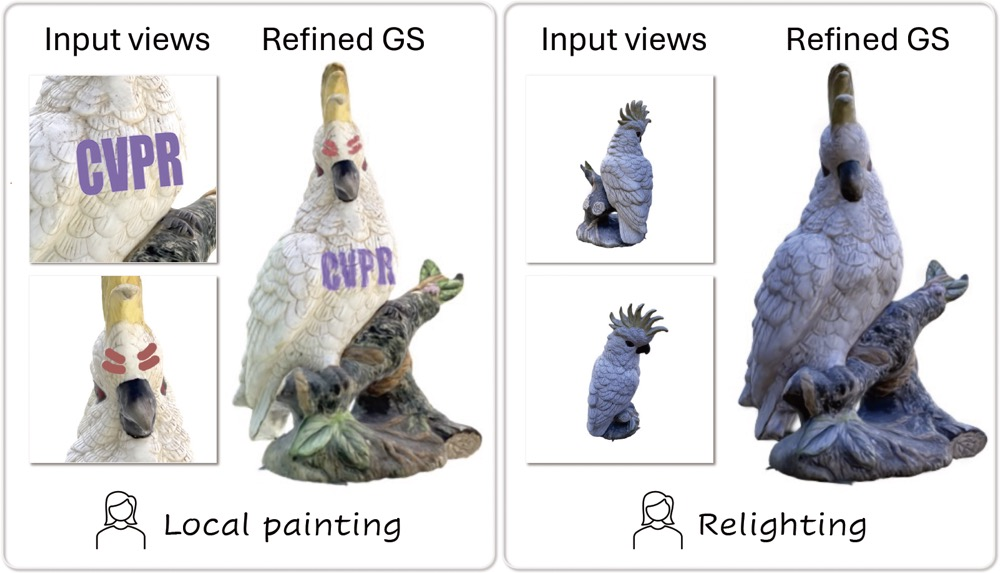
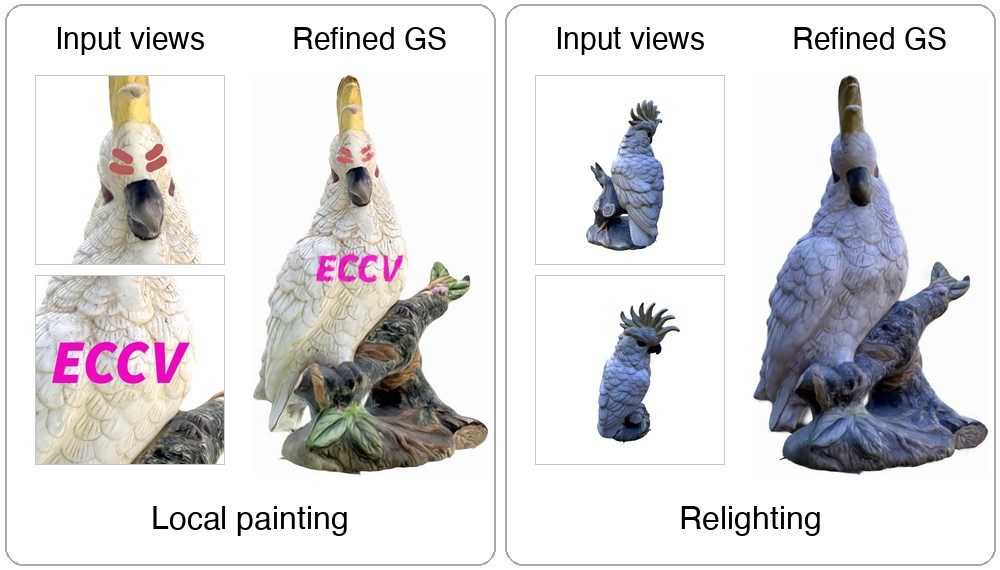
Add FluidGen, update SplatPainter (ECCV 2026), links, and bio

diff --git a/index.html b/index.html
@@ -65,9 +65,10 @@
 					  </p>
 					  <!-- Biography -->
 					  <p style="margin-top: 3mm; margin-bottom: 0.5mm; font-family: 'Open Sans', sans-serif; font-size: 12pt; text-align: left;">
-						I am a fourth-year CS Ph.D. student at Stanford University, advised by Prof. <a href="https://geometry.stanford.edu/member/guibas/"><b>Leonidas Guibas</b></a> and Prof. <a href="https://stanford.edu/~gordonwz/"><b>Gordon Wetzstein</b></a>. I also had the pleasure to work with Prof. <a href="https://jiajunwu.com/"><b>Jiajun Wu</b></a> in my first-year rotation. I got my bachelor's degree from the Department of Automation, Tsinghua University, where I was fortunate to be advised by Prof. <a href="http://www.liuyebin.com/"><b>Yebin Liu</b></a>.
+						I am a fourth-year CS Ph.D. student at Stanford University, advised by Prof. <a href="https://geometry.stanford.edu/member/guibas/"><b>Leonidas Guibas</b></a> and Prof. <a href="https://stanford.edu/~gordonwz/"><b>Gordon Wetzstein</b></a>. I also had the pleasure to work with Prof. <a href="https://jiajunwu.com/"><b>Jiajun Wu</b></a> in my first-year rotation. I got my bachelor's degree from the Department of Automation, Tsinghua University, where I was fortunate to be advised by Prof. <a href="https://liuyebin.xyz/"><b>Yebin Liu</b></a>.
 						<br>
 						My research interest lies in <b style="color: rgb(139, 0, 0);">Computer Vision</b> and <b style="color: rgb(139, 0, 0)">Computer Graphics</b>, such as neural rendering, 3D reconstruction, physics simulation, and more.
+						Recently, I have become more interested in the visual understanding of large language models. During my internship at <a href="https://ai.meta.com/"><b>Meta</b></a>, I explored image/video-to-code post-training for <a href="https://ai.meta.com/research/"><b>Muse</b></a>.
 					  </p>
 				</td>
 
@@ -81,7 +82,7 @@
 				<td style="border-style: none; border-width: medium;">
 					<p style="margin-top: 3px; margin-bottom: 3px;"><font face="Open Sans" style="font-size: 12pt;">
 						<br>I am a third-year CS Phd student at Stanford University, advised by Prof. <a href="https://geometry.stanford.edu/member/guibas/"><b>Leonidas Guibas</b></a> and Prof. <a href="https://stanford.edu/~gordonwz/"><b>Gordon Wetzstein</b></a>. I also had the pleasure to work with Prof. <a href="https://jiajunwu.com/"><b>Jiajun Wu</b></a> in my first-year rotation.
-						I got my bachelor's degree from the Department of Automation</b></a>, Tsinghua University, where I was fortunate to be advised by Prof. <a href="http://www.liuyebin.com/"><b>Yebin Liu</b></a>.
+						I got my bachelor's degree from the Department of Automation</b></a>, Tsinghua University, where I was fortunate to be advised by Prof. <a href="https://liuyebin.xyz/"><b>Yebin Liu</b></a>.
 						<br>
 						<br>
 						
@@ -104,11 +105,21 @@
 	</tr>
 
 	<tr align="left">
+		<td width="20%" valign="top"><p><img src="./figs/fluidgen.jpg" height="108" width="240" alt="fluidgen"  align="top"></p></td>
+		<td width="80%" valign="top"><p style="font-size: 12pt;line-height: 1.2;width: 12cm; margin-left: 10px; margin-top: 10px;">
+			<b>FluidGen: Physics-Aware Fluid Video Generation via Motion-Guided Post-Training</b><br>
+			<span style="text-decoration: underline">Yang Zheng</span>*, Zizhang Li*, Boyang Deng*, Jan Ackermann, Lei Shu, Yinghao Xu, Jiajun Wu, Gordon Wetzstein, Leonidas Guibas<br>
+			<b><a href="https://y-zheng18.github.io/FluidGen/">Project</a></b>
+			</p></td></tr>
+
+	<tr align="left">
 		<td width="20%" valign="top"><p><img src="./figs/splatpainter.jpg" height="138" width="240" alt="splatpainter"  align="top"></p></td>
 		<td width="80%" valign="top"><p style="font-size: 12pt;line-height: 1.2;width: 12cm; margin-left: 10px; margin-top: 30px;">
 			<b>SplatPainter: Interactive Authoring of 3D Gaussians from 2D Edits via Test-Time Training</b><br>
 			<span style="text-decoration: underline">Yang Zheng</span>, Hao Tan, Kai Zhang, Peng Wang, Leonidas Guibas, Gordon Wetzstein, Yifan Wang<br>
-			<b><a href="https://y-zheng18.github.io/SplatPainter/.">Project</a></b> 
+			<em><b>ECCV 2026</b></em> <br>
+			<a href="https://arxiv.org/abs/2512.05354"><b>Arxiv</b></a> |
+			<b><a href="https://y-zheng18.github.io/SplatPainter/">Project</a></b>
 			</p></td></tr>
 
 	<tr align="left">
@@ -181,7 +192,7 @@
 					<span style="text-decoration: underline">Yang Zheng</span>*, Ruizhi Shao*, Yuxiang Zhang, Tao Yu, Zerong Zheng, Qionghai Dai, Yebin Liu (* equal contribution)<br>
 				<em><b>ICCV 2021</b></em> <br>
 		<a href="https://openaccess.thecvf.com/content/ICCV2021/html/Zheng_DeepMultiCap_Performance_Capture_of_Multiple_Characters_Using_Sparse_Multiview_Cameras_ICCV_2021_paper.html"><b>Paper</b></a> |
-		<b><a href="http://www.liuyebin.com/dmc/dmc.html">Project</a></b> |
+		<b><a href="https://liuyebin.xyz/dmc/dmc.html">Project</a></b> |
 		<b><a href="https://github.com/DSaurus/DeepMultiCap">Code</a></b> |
 		<b><a href="https://github.com/y-zheng18/MultiHuman-Dataset">Dataset</a></b>
 		</p></td></tr>
